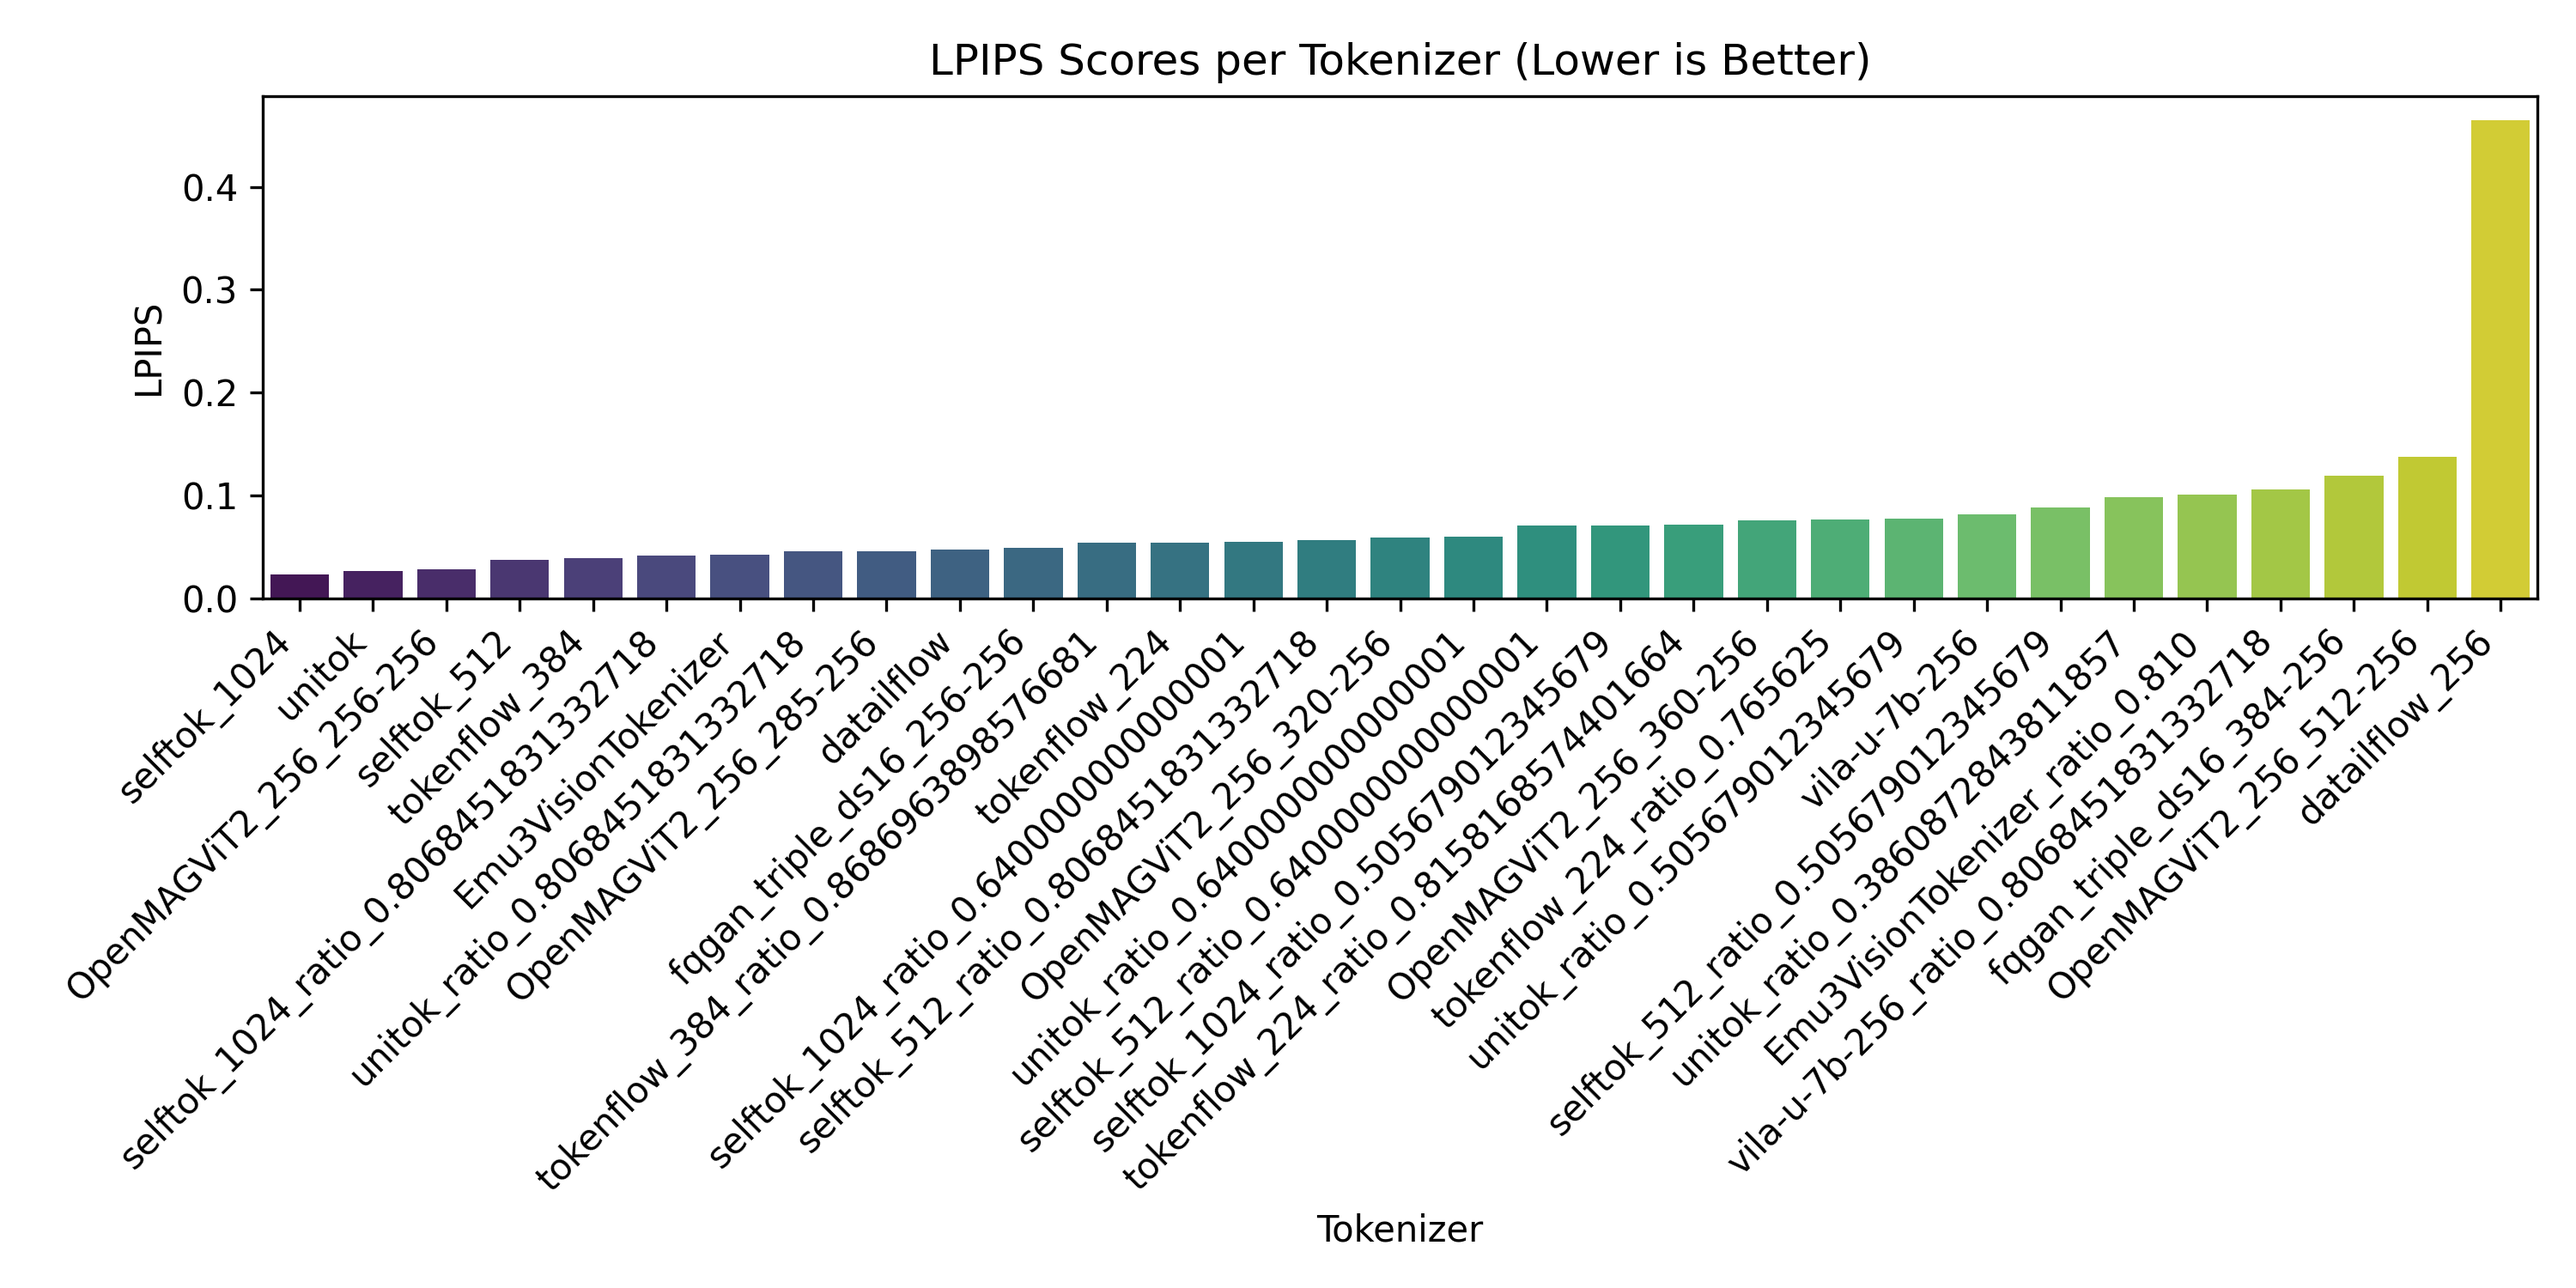
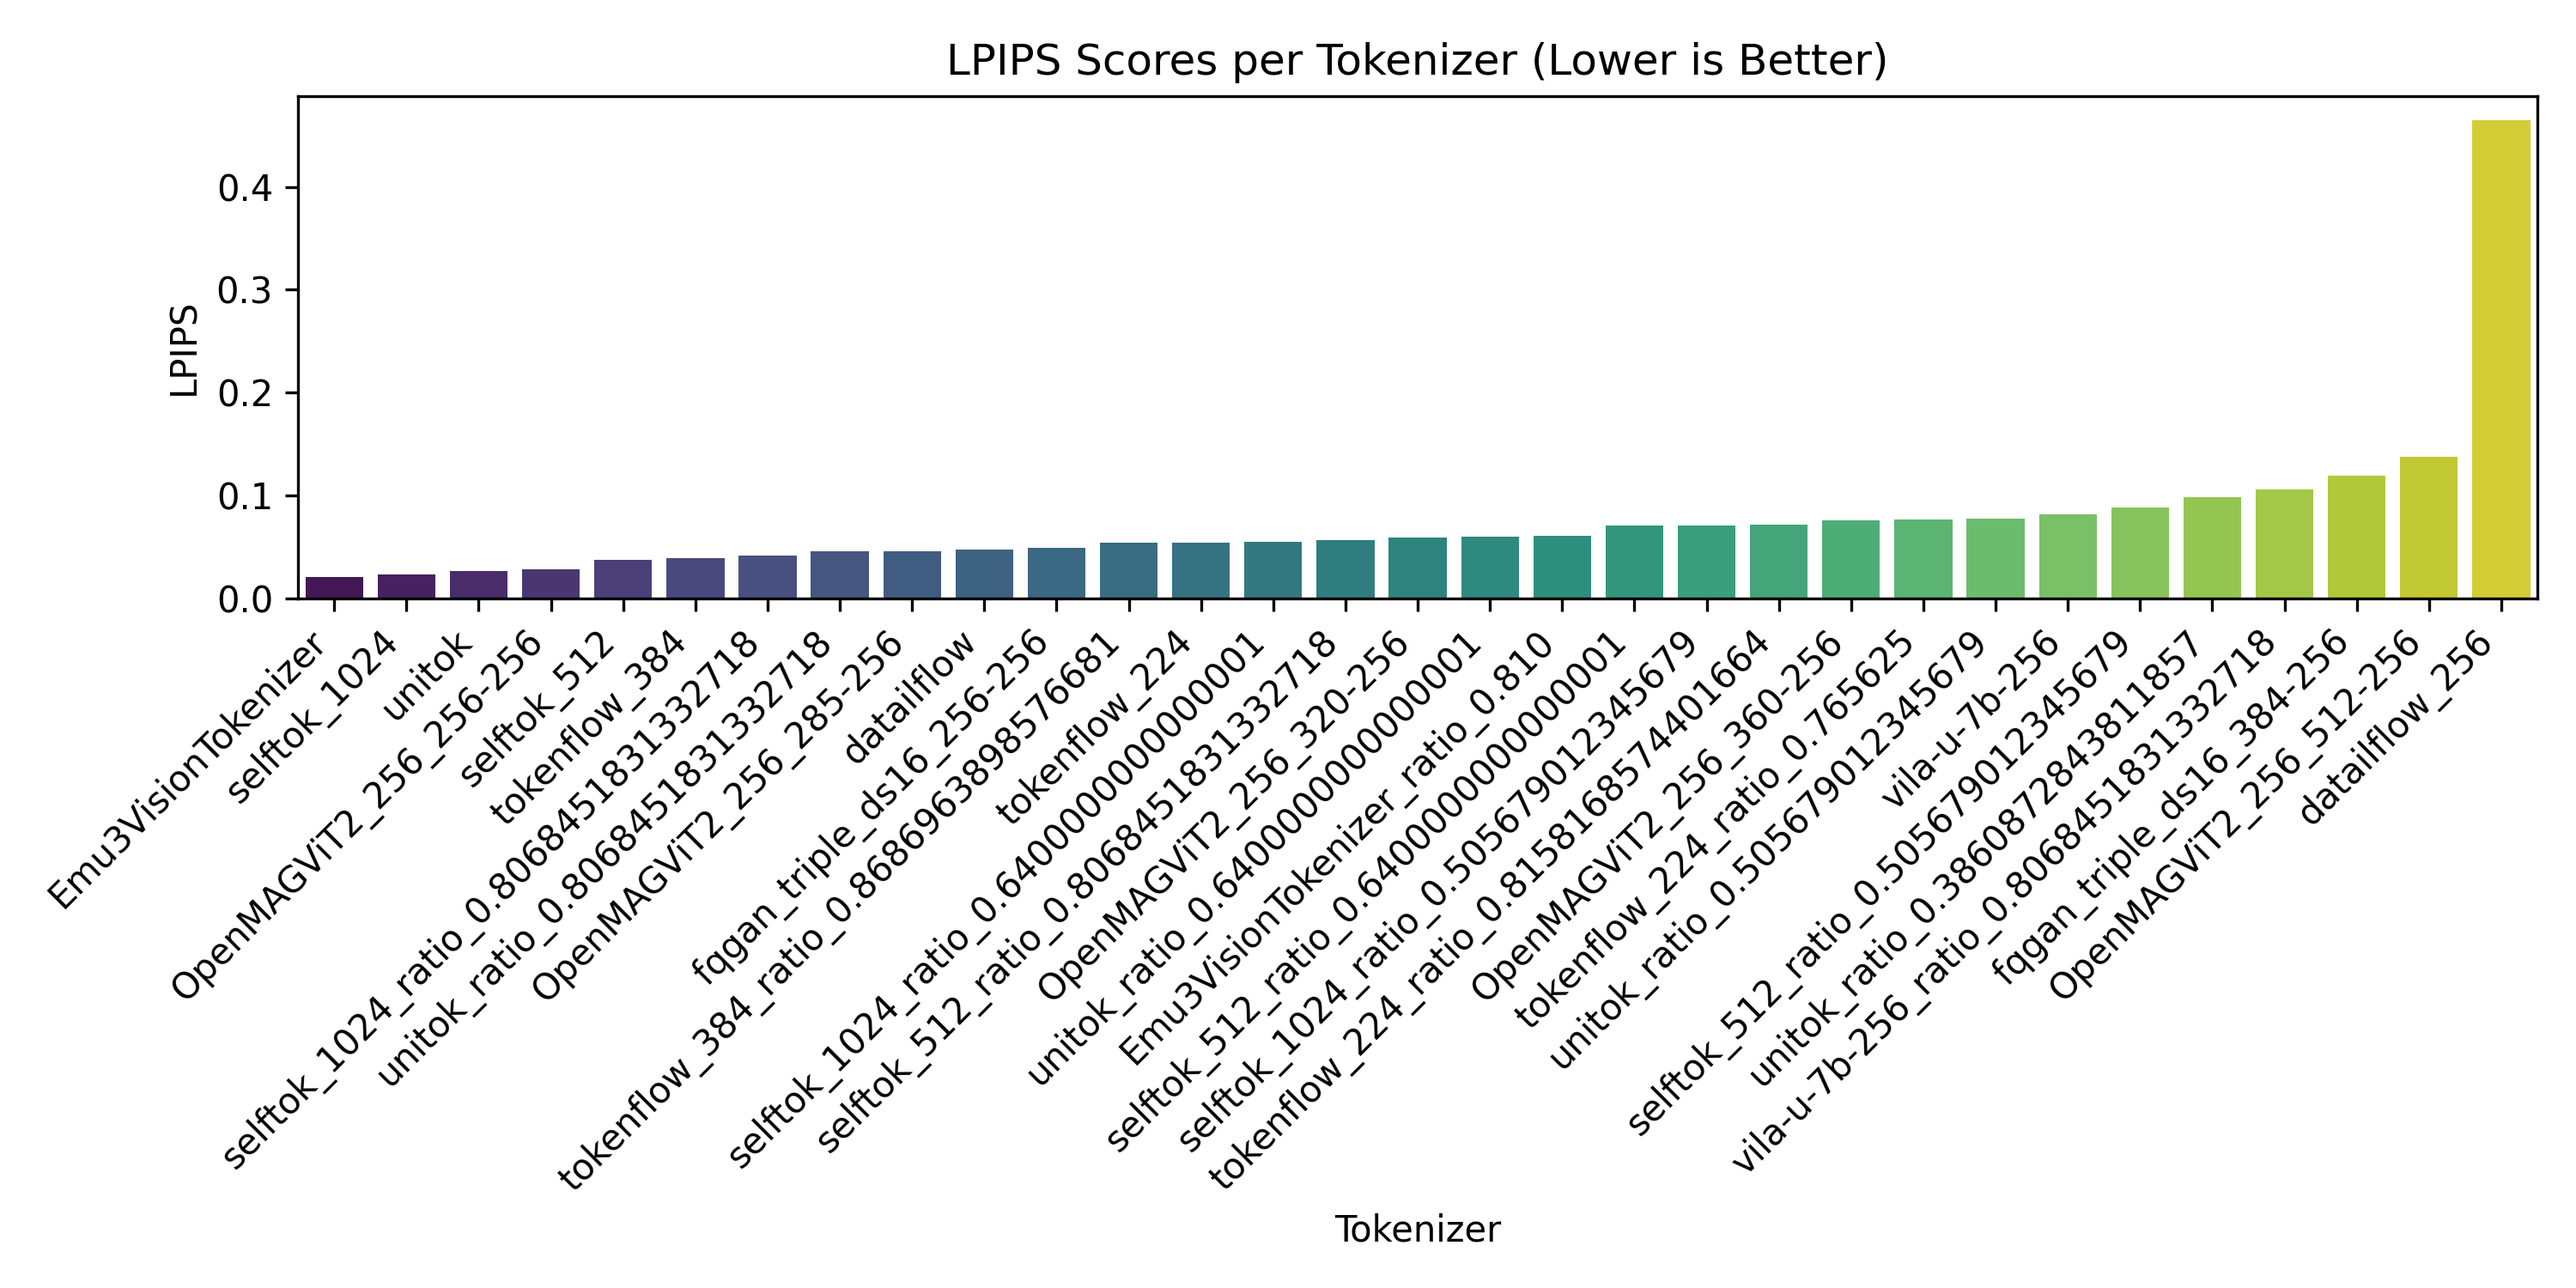
Improve metric calculation for Emu3

diff --git a/calculate_metrics.py b/calculate_metrics.py
@@ -83,12 +83,12 @@ def calculate_metrics():
             lpips_values = []
 
             # Resize generated images to match original resolution
-            resized_generated_images = [
-                gen.resize(orig.size, Image.LANCZOS)
+            original_images_resized = [
+                orig.resize(gen.size, Image.LANCZOS)
                 for orig, gen in zip(original_images, generated_images)
             ]
 
-            for orig, gen_resized in zip(original_images, resized_generated_images):
+            for orig, gen_resized in zip(original_images_resized, generated_images):
                 # Convert to numpy arrays for PSNR and SSIM
                 orig_np = np.array(orig)
                 gen_np = np.array(gen_resized)
@@ -108,7 +108,7 @@ def calculate_metrics():
             avg_lpips = np.mean(lpips_values)
 
             # FID remains unchanged, original and generated images as is
-            fid_value = calculate_fid(original_images, resized_generated_images)
+            fid_value = calculate_fid(original_images_resized, generated_images)
 
             results.append({
                 "Folder": folder_name,

diff --git a/metrics_results.md b/metrics_results.md
@@ -1,12 +1,12 @@
 | Folder                                 |     PSNR |     SSIM |     LPIPS |
 |:---------------------------------------|---------:|---------:|----------:|
+| Emu3VisionTokenizer                    | 29.9768  | 0.944316 | 0.0203538 |
 | selftok_1024                           | 28.1909  | 0.956769 | 0.0229801 |
 | unitok                                 | 26.8269  | 0.94769  | 0.0262645 |
 | OpenMAGViT2_256_256-256                | 28.0133  | 0.950976 | 0.0277018 |
 | selftok_512                            | 25.5964  | 0.936308 | 0.0373214 |
 | tokenflow_384                          | 24.2259  | 0.916221 | 0.0390151 |
 | selftok_1024_ratio_0.8068451831332718  | 27.3003  | 0.95048  | 0.0410871 |
-| Emu3VisionTokenizer                    | 28.8838  | 0.93564  | 0.0426306 |
 | unitok_ratio_0.8068451831332718        | 26.0167  | 0.942039 | 0.0454653 |
 | OpenMAGViT2_256_285-256                | 27.1488  | 0.944774 | 0.0458623 |
 | datailflow                             | 23.6924  | 0.907415 | 0.047612  |
@@ -17,6 +17,7 @@
 | selftok_512_ratio_0.8068451831332718   | 24.8674  | 0.928078 | 0.0563011 |
 | OpenMAGViT2_256_320-256                | 26.4948  | 0.938475 | 0.0588316 |
 | unitok_ratio_0.6400000000000001        | 25.1532  | 0.93202  | 0.0596058 |
+| Emu3VisionTokenizer_ratio_0.810        | 19.3618  | 0.809894 | 0.0602491 |
 | selftok_512_ratio_0.6400000000000001   | 23.971   | 0.916119 | 0.0705996 |
 | selftok_1024_ratio_0.505679012345679   | 25.3005  | 0.930756 | 0.070624  |
 | tokenflow_224_ratio_0.8158168574401664 | 22.1824  | 0.888691 | 0.0713256 |
@@ -26,7 +27,6 @@
 | vila-u-7b-256                          | 21.2165  | 0.87212  | 0.0813491 |
 | selftok_512_ratio_0.505679012345679    | 23.181   | 0.904139 | 0.0881794 |
 | unitok_ratio_0.3860872843811857        | 23.228   | 0.903283 | 0.0981989 |
-| Emu3VisionTokenizer_ratio_0.810        | 19.0414  | 0.813301 | 0.100508  |
 | vila-u-7b-256_ratio_0.8068451831332718 | 20.7301  | 0.863862 | 0.105976  |
 | fqgan_triple_ds16_384-256              | 21.5159  | 0.869983 | 0.119181  |
 | OpenMAGViT2_256_512-256                | 22.663   | 0.885562 | 0.137812  |
